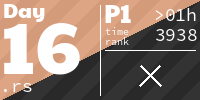
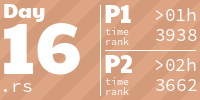
grid: add add_mut()

diff --git a/utils/grid/lib.rs b/utils/grid/lib.rs
@@ -181,6 +181,12 @@ impl<T: Clone + Eq + PartialEq + Debug> Grid<T> {
             None => None,
         }
     }
+    pub fn get_mut<C: AsCoord2d>(&mut self, c: &C) -> Option<&mut T> {
+        match self.valid_pos(c) {
+            Some(pos) => Some(self.data.get_mut(pos).unwrap()),
+            None => None,
+        }
+    }
     pub fn set<C: AsCoord2d>(&mut self, c: &C, mut val: T) -> Option<T> {
         match self.valid_pos(c) {
             Some(pos) => {

diff --git a/README.md b/README.md
@@ -1,6 +1,6 @@
 <!-- AOC TILES BEGIN -->
 <h1 align="center">
-  2024 - 31 ⭐ - Rust
+  2024 - 32 ⭐ - Rust
 </h1>
 <a href="src/day1.rs">
   <img src=".aoc_tiles/tiles/2024/01.png" width="161px">
